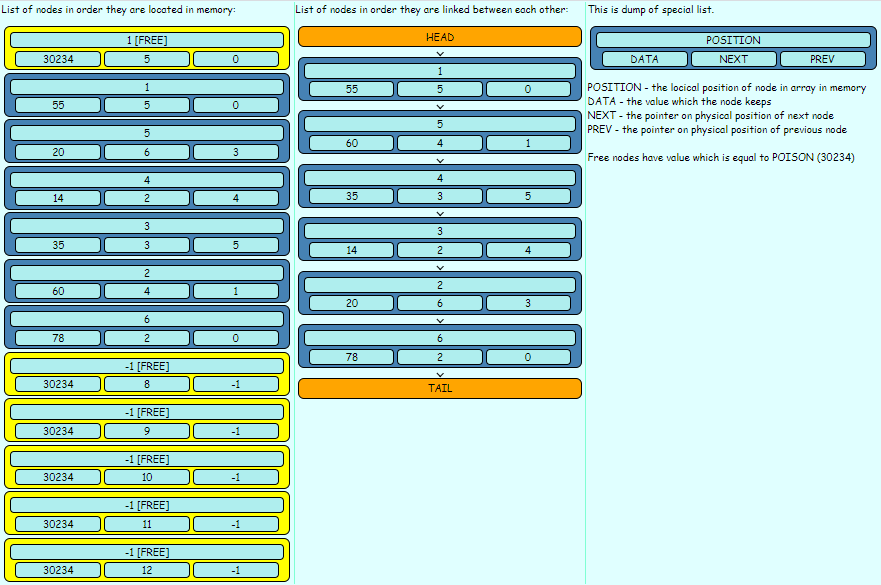
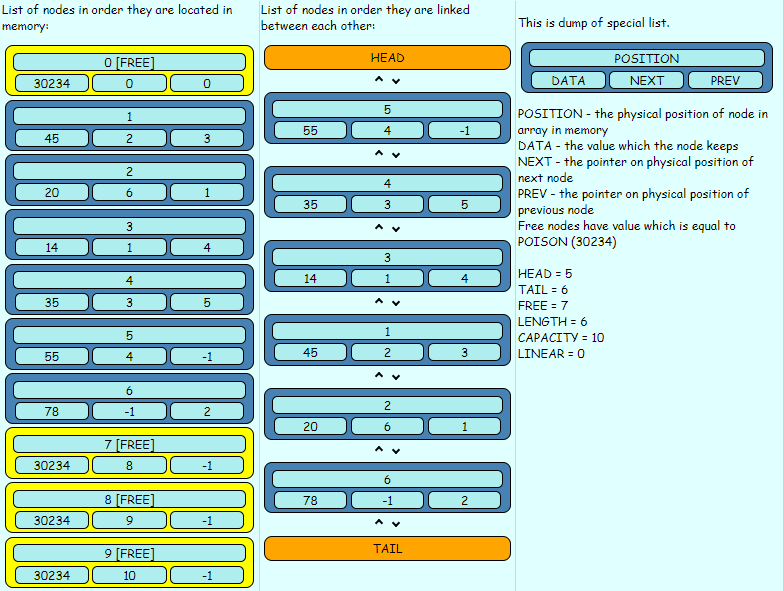
Version 1.5.4

diff --git a/List/list.js b/List/list.js
@@ -1,1 +1,1 @@
-document.body.innerHTML = '<table> <tr> <td> <p> List of nodes in order they are located in memory: </p> <div class="node" style="background:yellow"> <center class="adress">0 [FREE]</center> <div class="container"> <div class="info"> <div class="data field">30234</div> <div class="next field">0</div> <div class="prev field">0</div> </div> </div> </div><div class="node" id="1"> <center class="adress">1</center> <div class="container"> <div class="info"> <div class="data field">55</div> <div class="next field" onclick="Conduct(5)">5</div> <div class="prev field" onclick="Conduct(-1)">-1</div> </div> </div> </div><div class="node" id="2"> <center class="adress">2</center> <div class="container"> <div class="info"> <div class="data field">20</div> <div class="next field" onclick="Conduct(6)">6</div> <div class="prev field" onclick="Conduct(3)">3</div> </div> </div> </div><div class="node" id="3"> <center class="adress">3</center> <div class="container"> <div class="info"> <div class="data field">14</div> <div class="next field" onclick="Conduct(2)">2</div> <div class="prev field" onclick="Conduct(4)">4</div> </div> </div> </div><div class="node" id="4"> <center class="adress">4</center> <div class="container"> <div class="info"> <div class="data field">35</div> <div class="next field" onclick="Conduct(3)">3</div> <div class="prev field" onclick="Conduct(5)">5</div> </div> </div> </div><div class="node" id="5"> <center class="adress">5</center> <div class="container"> <div class="info"> <div class="data field">60</div> <div class="next field" onclick="Conduct(4)">4</div> <div class="prev field" onclick="Conduct(1)">1</div> </div> </div> </div><div class="node" id="6"> <center class="adress">6</center> <div class="container"> <div class="info"> <div class="data field">78</div> <div class="next field" onclick="Conduct(-1)">-1</div> <div class="prev field" onclick="Conduct(2)">2</div> </div> </div> </div><div class="node" style="background:yellow"> <center class="adress">7 [FREE]</center> <div class="container"> <div class="info"> <div class="data field">30234</div> <div class="next field">8</div> <div class="prev field">-1</div> </div> </div> </div><div class="node" style="background:yellow"> <center class="adress">8 [FREE]</center> <div class="container"> <div class="info"> <div class="data field">30234</div> <div class="next field">9</div> <div class="prev field">-1</div> </div> </div> </div><div class="node" style="background:yellow"> <center class="adress">9 [FREE]</center> <div class="container"> <div class="info"> <div class="data field">30234</div> <div class="next field">10</div> <div class="prev field">-1</div> </div> </div> </div></td> <td style="border-left: 1px solid Aquamarine; border-right: 1px solid Aquamarine;"> <p> List of nodes in order they are linked between each other: </p> <div class="node" style="background:Orange">HEAD</div> <center> <i class="up"></i> <i class="down"></i> </center> <div class="node"> <center class="adress">1</center> <div class="container"> <div class="info"> <div class="data field">55</div> <div class="next field">5</div> <div class="prev field">-1</div> </div> </div> </div> <center> <i class="up"></i> <i class="down"></i> </center><div class="node"> <center class="adress">5</center> <div class="container"> <div class="info"> <div class="data field">60</div> <div class="next field">4</div> <div class="prev field">1</div> </div> </div> </div> <center> <i class="up"></i> <i class="down"></i> </center><div class="node"> <center class="adress">4</center> <div class="container"> <div class="info"> <div class="data field">35</div> <div class="next field">3</div> <div class="prev field">5</div> </div> </div> </div> <center> <i class="up"></i> <i class="down"></i> </center><div class="node"> <center class="adress">3</center> <div class="container"> <div class="info"> <div class="data field">14</div> <div class="next field">2</div> <div class="prev field">4</div> </div> </div> </div> <center> <i class="up"></i> <i class="down"></i> </center><div class="node"> <center class="adress">2</center> <div class="container"> <div class="info"> <div class="data field">20</div> <div class="next field">6</div> <div class="prev field">3</div> </div> </div> </div> <center> <i class="up"></i> <i class="down"></i> </center><div class="node"> <center class="adress">6</center> <div class="container"> <div class="info"> <div class="data field">78</div> <div class="next field">-1</div> <div class="prev field">2</div> </div> </div> </div> <center> <i class="up"></i> <i class="down"></i> </center><div class="node" style="background:Orange"> TAIL </div> </td> <td style="position:fixed"> <p> This is dump of special list. </p> <div class="node"> <center class="adress"> POSITION </center> <div class="container"> <div class="info"> <div class="data field"> DATA </div> <div class="next field"> NEXT </div> <div class="prev field"> PREV </div> </div> </div> </div> <p> POSITION - the physical position of node in array in memory <br>DATA - the value which the node keeps <br>NEXT - the pointer on physical position of next node <br>PREV - the pointer on physical position of previous node <br><br>Free nodes have value which is equal to POISON (30234) <br><br>HEAD = 1 <br>TAIL = 6 <br>FREE = 7 <br>LENGTH = 6 <br>CAPACITY = 10 </p>';
+document.body.innerHTML = '<table> <tr> <td> <p> List of nodes in order they are located in memory: </p> <div class="node" style="background:yellow"> <center class="adress">0 [FREE]</center> <div class="container"> <div class="info"> <div class="data field">30234</div> <div class="next field">0</div> <div class="prev field">0</div> </div> </div> </div><div class="node" id="1"> <center class="adress">1</center> <div class="container"> <div class="info"> <div class="data field">45</div> <div class="next field" onclick="Conduct(2)">2</div> <div class="prev field" onclick="Conduct(3)">3</div> </div> </div> </div><div class="node" id="2"> <center class="adress">2</center> <div class="container"> <div class="info"> <div class="data field">20</div> <div class="next field" onclick="Conduct(6)">6</div> <div class="prev field" onclick="Conduct(1)">1</div> </div> </div> </div><div class="node" id="3"> <center class="adress">3</center> <div class="container"> <div class="info"> <div class="data field">14</div> <div class="next field" onclick="Conduct(1)">1</div> <div class="prev field" onclick="Conduct(4)">4</div> </div> </div> </div><div class="node" id="4"> <center class="adress">4</center> <div class="container"> <div class="info"> <div class="data field">35</div> <div class="next field" onclick="Conduct(3)">3</div> <div class="prev field" onclick="Conduct(5)">5</div> </div> </div> </div><div class="node" id="5"> <center class="adress">5</center> <div class="container"> <div class="info"> <div class="data field">55</div> <div class="next field" onclick="Conduct(4)">4</div> <div class="prev field" onclick="Conduct(-1)">-1</div> </div> </div> </div><div class="node" id="6"> <center class="adress">6</center> <div class="container"> <div class="info"> <div class="data field">78</div> <div class="next field" onclick="Conduct(-1)">-1</div> <div class="prev field" onclick="Conduct(2)">2</div> </div> </div> </div><div class="node" style="background:yellow"> <center class="adress">7 [FREE]</center> <div class="container"> <div class="info"> <div class="data field">30234</div> <div class="next field">8</div> <div class="prev field">-1</div> </div> </div> </div><div class="node" style="background:yellow"> <center class="adress">8 [FREE]</center> <div class="container"> <div class="info"> <div class="data field">30234</div> <div class="next field">9</div> <div class="prev field">-1</div> </div> </div> </div><div class="node" style="background:yellow"> <center class="adress">9 [FREE]</center> <div class="container"> <div class="info"> <div class="data field">30234</div> <div class="next field">10</div> <div class="prev field">-1</div> </div> </div> </div></td> <td style="border-left: 1px solid Aquamarine; border-right: 1px solid Aquamarine;"> <p> List of nodes in order they are linked between each other: </p> <div class="node" style="background:Orange">HEAD</div> <center> <i class="up"></i> <i class="down"></i> </center> <div class="node"> <center class="adress">5</center> <div class="container"> <div class="info"> <div class="data field">55</div> <div class="next field">4</div> <div class="prev field">-1</div> </div> </div> </div> <center> <i class="up"></i> <i class="down"></i> </center><div class="node"> <center class="adress">4</center> <div class="container"> <div class="info"> <div class="data field">35</div> <div class="next field">3</div> <div class="prev field">5</div> </div> </div> </div> <center> <i class="up"></i> <i class="down"></i> </center><div class="node"> <center class="adress">3</center> <div class="container"> <div class="info"> <div class="data field">14</div> <div class="next field">1</div> <div class="prev field">4</div> </div> </div> </div> <center> <i class="up"></i> <i class="down"></i> </center><div class="node"> <center class="adress">1</center> <div class="container"> <div class="info"> <div class="data field">45</div> <div class="next field">2</div> <div class="prev field">3</div> </div> </div> </div> <center> <i class="up"></i> <i class="down"></i> </center><div class="node"> <center class="adress">2</center> <div class="container"> <div class="info"> <div class="data field">20</div> <div class="next field">6</div> <div class="prev field">1</div> </div> </div> </div> <center> <i class="up"></i> <i class="down"></i> </center><div class="node"> <center class="adress">6</center> <div class="container"> <div class="info"> <div class="data field">78</div> <div class="next field">-1</div> <div class="prev field">2</div> </div> </div> </div> <center> <i class="up"></i> <i class="down"></i> </center><div class="node" style="background:Orange"> TAIL </div> </td> <td style="position:fixed"> <p> This is dump of special list. </p> <div class="node"> <center class="adress"> POSITION </center> <div class="container"> <div class="info"> <div class="data field"> DATA </div> <div class="next field"> NEXT </div> <div class="prev field"> PREV </div> </div> </div> </div> <p> POSITION - the physical position of node in array in memory <br>DATA - the value which the node keeps <br>NEXT - the pointer on physical position of next node <br>PREV - the pointer on physical position of previous node <br>Free nodes have value which is equal to POISON (30234) <br><br>HEAD = 5 <br>TAIL = 6 <br>FREE = 7 <br>LENGTH = 6 <br>CAPACITY = 10 <br>LINEAR = 0 </p>';

diff --git a/List/HTMLdump.html b/List/HTMLdump.html
@@ -1,4 +1,4 @@
-<!-- Version 1.5.3 -->
+<!-- Version 1.5.4 -->
 
 <html>
 	<head>
@@ -13,7 +13,7 @@
 			}
 
 			table {
-				font-size: 20px;
+				font-size: 18px;
 				width: 100%
 			}
 

diff --git a/List/list.c b/List/list.c
@@ -1,4 +1,4 @@
-//Version 1.5.3
+//Version 1.5.4
 
 #include "list.h"
 
@@ -25,6 +25,8 @@
 #define LENGTH   thisList->length
 #define CAPACITY thisList->capacity
 
+#define LINEAR thisList->linear
+
 List* ListConstruct (size_t capacity) {
 
     List* thisList = (List*) calloc (sizeof(List), 1);
@@ -43,6 +45,8 @@ List* ListConstruct (size_t capacity) {
 
     LENGTH   = 0;
     CAPACITY = capacity;
+
+    LINEAR = true;
 
     DATA(0) = POISON;
 
@@ -97,11 +101,17 @@ index_t GetIndexFromOrder (List* thisList, index_t number) {
 
     ASSERT_OK(thisList)
 
-	index_t indexToFind = HEAD;
 	if (number > LENGTH) {
         return -1;
 
     }
+
+    if (LINEAR) {
+        return number;
+
+    }
+
+    index_t indexToFind = HEAD;
 
 	for (index_t point = 1; point < number; point++) {
 
@@ -121,6 +131,50 @@ index_t GetIndexFromOrder (List* thisList, index_t number) {
     #endif
 
 	return indexToFind;
+};
+
+bool ListMakeLinear (List** thisList) {
+
+    ASSERT_OK(*thisList)
+
+    if ((*thisList)->linear) {
+        return false;
+
+    }
+
+    List* LinearList = ListConstruct ((*thisList)->capacity);
+
+    index_t link = (*thisList)->head;
+
+    for(index_t point = 1; point <= (*thisList)->length; point++) {
+
+        LinearList->data[point] = (*thisList)->data[link];
+        LinearList->next[point] = point + 1;
+        LinearList->prev[point] = point - 1;
+        LinearList->length++;
+        link = (*thisList)->next[link];
+
+    }
+
+    ListDestroy (*thisList);
+
+    *thisList = LinearList;
+
+    (*thisList)->head = 1;
+    (*thisList)->tail = (*thisList)->length;
+    (*thisList)->free = (*thisList)->length + 1;
+    (*thisList)->linear = true;
+
+    ConsoleDump (*thisList);
+
+    #ifdef WARNINGS
+        printf ("WARNING!                                                          \n"
+                "You have just brought physical addresses to logical addresses.    \n"
+                "It was a long operation with O(N) asymptotic.                     \n"
+        );
+    #endif
+
+    return true;
 };
 
 bool TryToRealloc (List* thisList) {
@@ -185,6 +239,8 @@ index_t ListInsertAtIndex (List* thisList, elem_t newElem, index_t index) {
 
     ASSERT_OK(thisList)
 
+    LINEAR = false;
+
 	if (index == 0) {
 		return ListInsertBegin (thisList, newElem);
 
@@ -212,6 +268,8 @@ index_t ListInsertBeforeIndex (List* thisList, elem_t newElem, index_t index) {
 index_t ListInsertBegin (List* thisList, elem_t newElem) {
 
     ASSERT_OK(thisList)
+
+    LINEAR = false;
 
 	LENGTH++;
 
@@ -267,17 +325,13 @@ index_t ListInsertEnd (List* thisList, elem_t newElem) {
 
 index_t ListInsertAtPlace (List* thisList, elem_t newElem, index_t place) {
 
-    LENGTH++;
-
-	TryToRealloc (thisList);
-
     if (place == TAIL) {
 		return ListInsertEnd(thisList, newElem);
 
 	}
 
     //??
-	if (place == 0) {
+	if (place == 1) {
         return ListInsertBegin(thisList, newElem);
 
 	}
@@ -286,6 +340,12 @@ index_t ListInsertAtPlace (List* thisList, elem_t newElem, index_t place) {
         return -1;
 
 	}
+
+	LENGTH++;
+
+	TryToRealloc (thisList);
+
+	LINEAR = false;
 
 	index_t insertedIndex = FREE;
     FREE = NEXT(FREE);
@@ -304,6 +364,9 @@ index_t ListInsertAtPlace (List* thisList, elem_t newElem, index_t place) {
         ConsoleData   (thisList);
 	#endif
 
+	    printf("END OF FUNCTION thisList->length=%d\n", thisList->length);
+
+
 	return place;
 };
 
@@ -315,6 +378,8 @@ index_t ListEraseAtIndex (List* thisList, index_t index) {
         return -1;
 
     }
+
+    LINEAR = false;
 
     index = GetIndexFromOrder (thisList, index);
 
@@ -345,6 +410,8 @@ index_t ListEraseAtPlace (List* thisList, index_t place) {
 
     LENGTH--;
 
+    LINEAR = false;
+
     PREV(NEXT(place)) = PREV(place);
     NEXT(PREV(place)) = NEXT(place);
 
@@ -370,6 +437,11 @@ elem_t ListGetByOrder (List* thisList, index_t order) {
 
     if (order > LENGTH) {
         return POISON;
+
+    }
+
+    if (LINEAR) {
+        return DATA(order);
 
     }
 
@@ -600,19 +672,21 @@ bool HTMLList (List* thisList) {
         <br>DATA - the value which the node keeps                                                     \
         <br>NEXT - the pointer on physical position of next node                                      \
         <br>PREV - the pointer on physical position of previous node                                  \
-        <br><br>Free nodes have value which is equal to POISON (%d)                                   \
+        <br>Free nodes have value which is equal to POISON (%d)                                       \
         <br><br>HEAD = %d                                                                             \
         <br>TAIL = %d                                                                                 \
         <br>FREE = %d                                                                                 \
         <br>LENGTH = %d                                                                               \
         <br>CAPACITY = %d                                                                             \
+        <br>LINEAR = %d                                                                               \
         </p>"),
     POISON,
     HEAD,
     TAIL,
     FREE,
     LENGTH,
-    CAPACITY
+    CAPACITY,
+    LINEAR
     );
 
     //Adding the end of JS command
@@ -664,8 +738,8 @@ void ConsoleDump(List* thisList) {
 
     printf("    thisList->data [%ld] {\n", thisList->data);
     for (index_t point = 0; point < CAPACITY; point++) {
-        printf("        [%d] %d ", point, thisList->data[point]);
-        if (thisList->data[point] == POISON) {
+        printf("        [%d] %d ", point, DATA(point));
+        if (DATA(point) == POISON) {
             printf("(POISON!)");
         }
         printf("\n");
@@ -674,13 +748,13 @@ void ConsoleDump(List* thisList) {
 
     printf("    thisList->prev [%ld] {\n", thisList->prev);
     for (index_t point = 0; point < CAPACITY; point++) {
-        printf("        [%d] %d\n", point, thisList->prev[point]);
+        printf("        [%d] %d\n", point, PREV(point));
     };
     printf("    }\n\n");
 
     printf("    thisList->next [%ld] {\n", thisList->next);
     for (index_t point = 0; point < CAPACITY; point++) {
-        printf("        [%d] %d\n", point, thisList->next[point]);
+        printf("        [%d] %d\n", point, NEXT(point));
     };
     printf("    }\n\n");
 
@@ -694,8 +768,8 @@ void ConsoleData(List* thisList) {
     index_t link = HEAD;
 
     for(index_t point = 1; point <= LENGTH; point++) {
-        printf("[%d] %d\n", point, thisList->data[link]);
-        link = thisList->next[link];
+        printf("[%d] %d\n", point, DATA(link));
+        link = NEXT(link);
     }
 
     printf("* * * END OF DATA * * *\n\n");

diff --git a/List/list.h b/List/list.h
@@ -1,4 +1,4 @@
-//Version 1.5.3
+//Version 1.5.4
 
 #include <assert.h>
 #include <stdbool.h>
@@ -37,6 +37,9 @@ struct List {
     size_t length;
     size_t capacity;
 
+    //Features
+    bool linear;
+
 };
 
 //FUNCTIONS
@@ -54,9 +57,10 @@ index_t GetCapacity (List* thisList);
 index_t GetIndexFromOrder (List* thisList, elem_t number);
 
 //Work with list and it's data
-bool TryToRealloc (List* thisList);
+bool ListMakeLinear (List** thisList);
+bool TryToRealloc   (List*  thisList);
 //void ListLeadLogicAdressToPhysical (List* thisList);
-bool ListDestroy  (List* thisList);
+bool ListDestroy    (List*  thisList);
 
 //Insert in list
 index_t ListInsertAtIndex     (List* thisList, elem_t newElem, index_t index);

diff --git a/List/test.c b/List/test.c
@@ -1,4 +1,4 @@
-//Version 1.5.3
+//Version 1.5.4
 
 void GeneralProcess (List* MyList) {
 
@@ -115,6 +115,14 @@ int Test () {
 
     ListEraseAtPlace(MyList, 4);
 
+    ListEraseFromEnd(MyList);
+    ListEraseFromEnd(MyList);
+
+    ListInsertEnd (MyList, 44);
+    ListInsertEnd (MyList, 55);
+    ListInsertEnd (MyList, 66);
+
+    ListMakeLinear (&MyList);
 
     HTMLList (MyList);
     ConsoleData (MyList);
